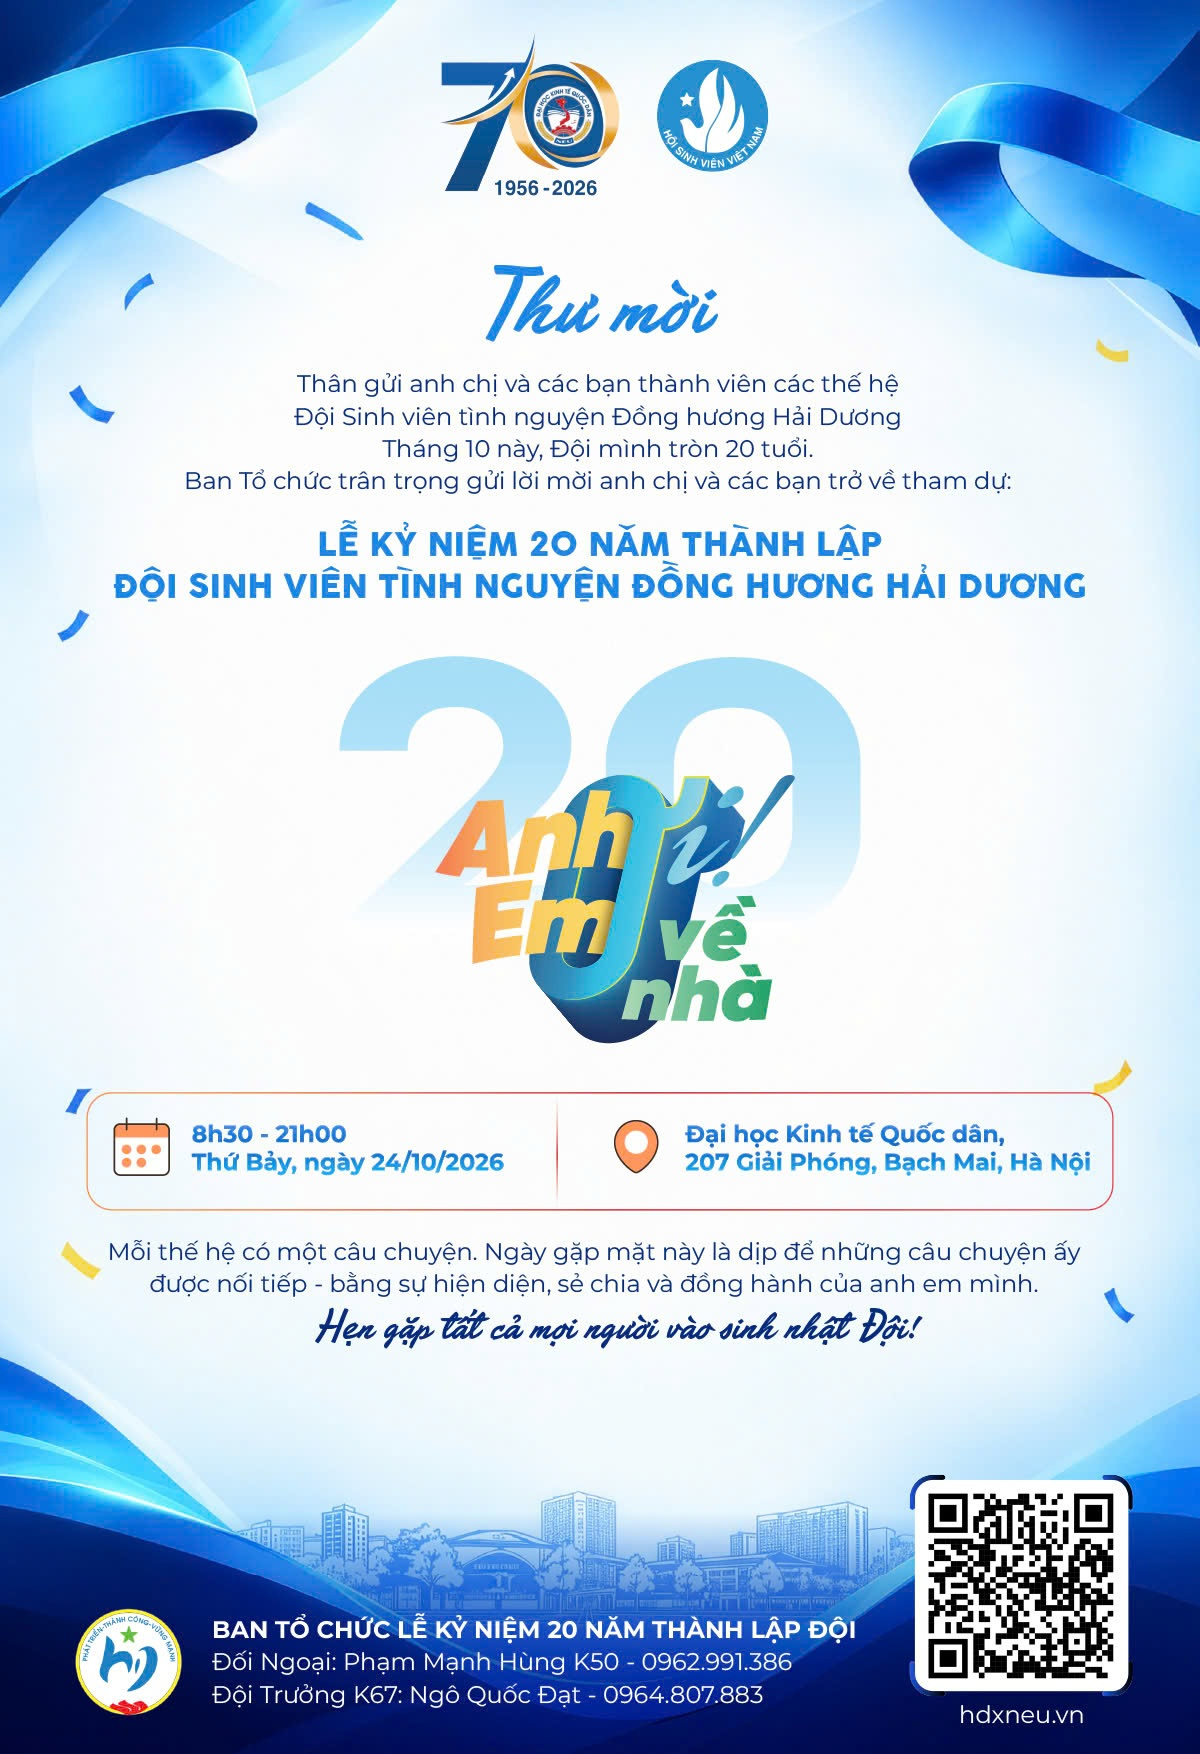
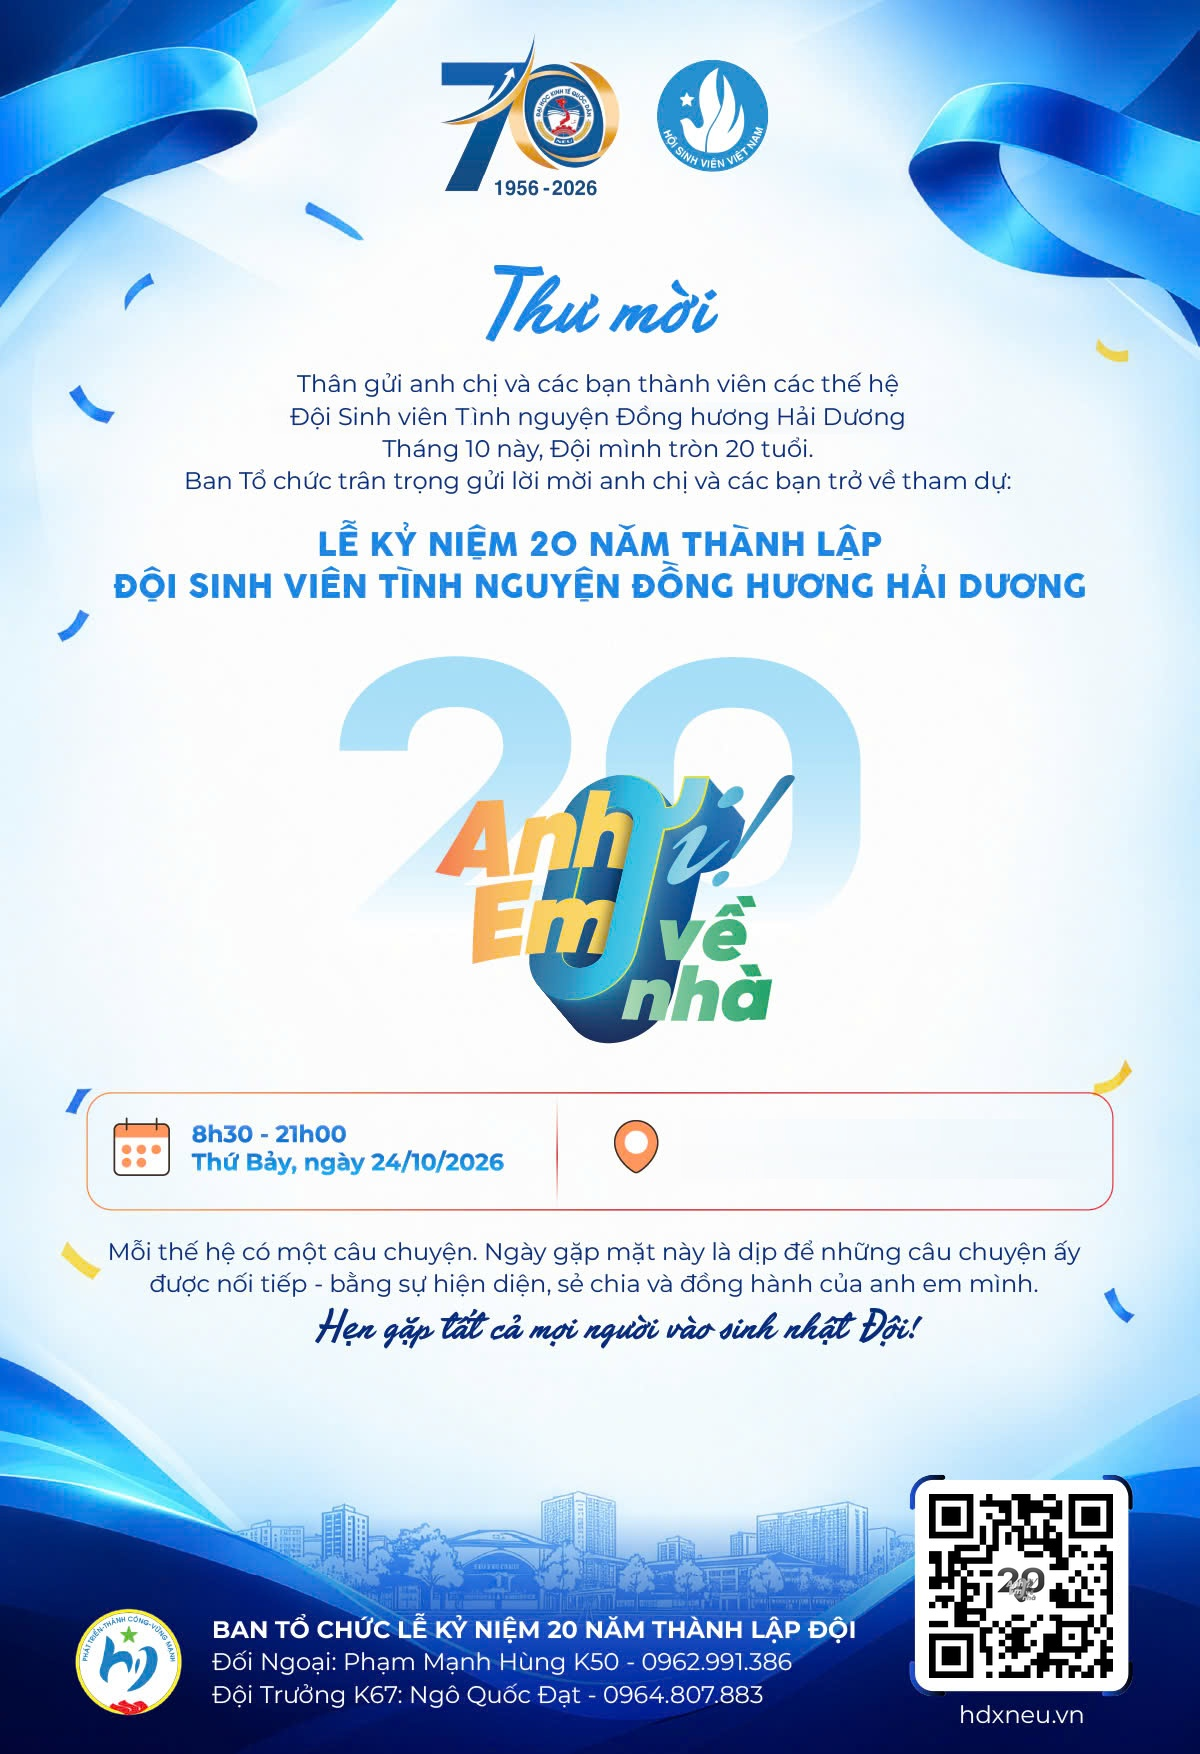
Thư mời: viết hoa "Tình" trong tên Đội, địa điểm mới Sân ký túc xá ĐH KTQD, thay mã QR
Claude-Session: https://claude.ai/code/session_014yL1fm81bofgESi1iAHE39

Changed region(s): [[0.7708, 0.8312, 0.925, 0.9544], [0.2467, 0.2155, 0.7708, 0.2463], [0.555, 0.6157, 0.925, 0.6773]]

diff --git a/thu-moi.html b/thu-moi.html
@@ -205,7 +205,7 @@ e) { .paper { transition: transform .3s ease; } .paper.bump { transform: scale(1
 
     <dl class="event">
       <dt>Thời gian</dt><dd>8h30 – 21h00, Thứ Bảy 24/10/2026</dd>
-      <dt>Địa điểm</dt><dd>Đại học Kinh tế Quốc dân, 207 Giải Phóng, Bạch Mai, Hà Nội</dd>
+      <dt>Địa điểm</dt><dd>Sân ký túc xá, Đại học Kinh tế Quốc dân</dd>
     </dl>
   </section>
 
@@ -232,6 +232,17 @@ e) { .paper { transition: transform .3s ease; } .paper.bump { transform: scale(1
   };
   const PREFIX_FONT = s => `400 ${s}px Montserrat, "Be Vietnam Pro", sans-serif`;
   const ROLE_FONT = s => `500 ${s}px Montserrat, "Be Vietnam Pro", sans-serif`;
+  // Venue lines inside the info box (the artwork's own text there was removed so the new venue can be set in the same face)
+  const PLACE = ["Sân ký túc xá,", "Đại học Kinh tế Quốc dân"];
+  const PLACE_X = 686, PLACE_Y = [1141, 1169];
+  const PLACE_FONT = `700 23px Montserrat, "Be Vietnam Pro", sans-serif`;
+
+  function drawPlace() {
+    const grad = ctx.createLinearGradient(0, 1122, 0, 1176);
+    grad.addColorStop(0, "#1b66b5"); grad.addColorStop(1, "#1f7cc6");
+    ctx.font = PLACE_FONT; ctx.fillStyle = grad; ctx.textAlign = "left"; ctx.textBaseline = "alphabetic";
+    PLACE.forEach((t, i) => ctx.fillText(t, PLACE_X, PLACE_Y[i]));
+  }
 
   const $ = id => document.getElementById(id);
   const cv = $("cv"), ctx = cv.getContext("2d");
@@ -297,14 +308,16 @@ e) { .paper { transition: transform .3s ease; } .paper.bump { transform: scale(1
         document.fonts.load(st.font(36), sample),
         document.fonts.load(PREFIX_FONT(22), sample),
         document.fonts.load(ROLE_FONT(21), sample),
+        document.fonts.load(PLACE_FONT, PLACE.join(" ")),
       ]);
     } catch (e) {}
     await imgReady;
     if (ticket !== drawing) return;
 
     ctx.clearRect(0, 0, W, H);
-    if (!full) { ctx.drawImage(img, 0, 0, W, H); return; }
+    if (!full) { ctx.drawImage(img, 0, 0, W, H); drawPlace(); return; }
     ctx.drawImage(blank, 0, 0, W, H);
+    drawPlace();
     ctx.textAlign = "left";
     ctx.textBaseline = "alphabetic";
 
@@ -383,7 +396,7 @@ e) { .paper { transition: transform .3s ease; } .paper.bump { transform: scale(1
 
   $("f").addEventListener("submit", e => { e.preventDefault(); exportImage("jpg"); });
   $("dlpng").addEventListener("click", () => exportImage("png"));
-  const SHARE_TEXT = "Trân trọng kính mời bạn tới Lễ kỷ niệm 20 năm thành lập Đội SVTN Hải Dương – NEU, 8h30 – 21h00, Thứ Bảy 24/10/2026 tại Đại học Kinh tế Quốc dân, 207 Giải Phóng, Hà Nội.";
+  const SHARE_TEXT = "Trân trọng kính mời bạn tới Lễ kỷ niệm 20 năm thành lập Đội Sinh viên Tình nguyện Đồng hương Hải Dương – NEU, 8h30 – 21h00, Thứ Bảy 24/10/2026 tại Sân ký túc xá, Đại học Kinh tế Quốc dân.";
   const WEB_APPS = { zalo: { name: "Zalo", url: "https://chat.zalo.me/" }, msgr: { name: "Messenger", url: "https://www.messenger.com/" } };
 
   function needName() {
